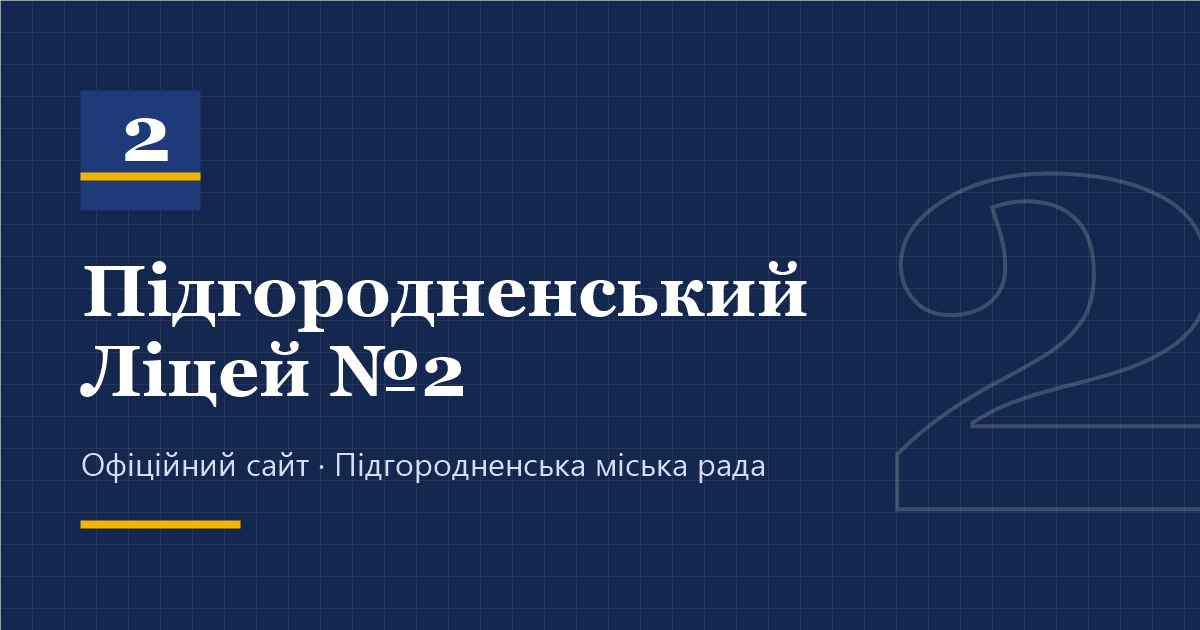
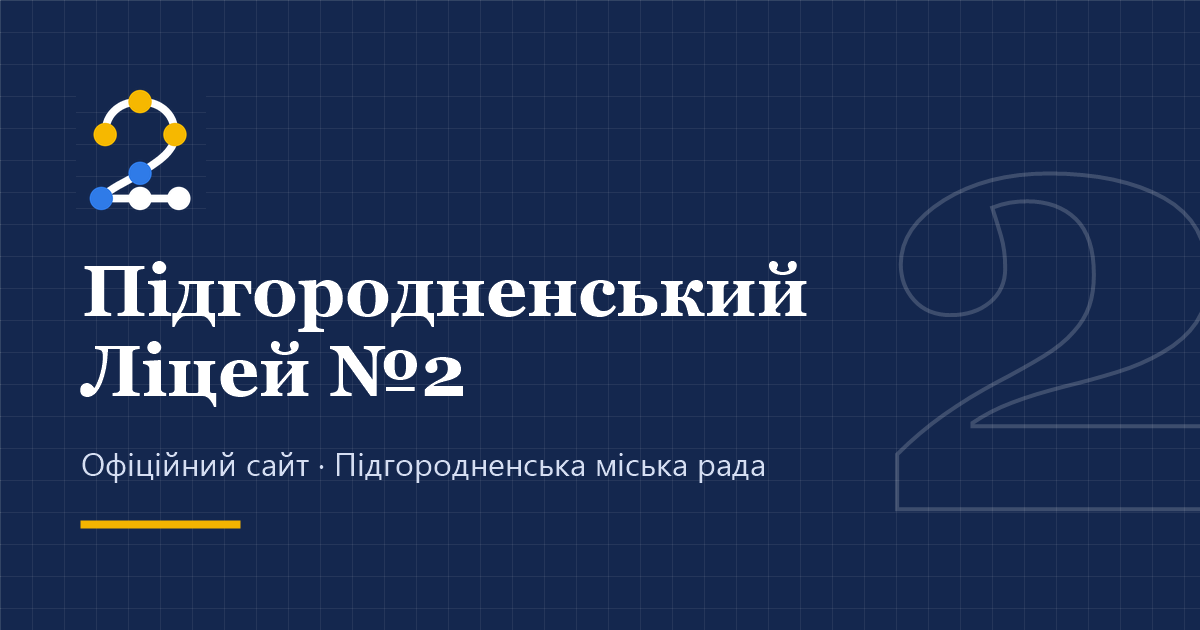
Оновлення актуальності

Changed region(s): [[0.0617, 0.1206, 0.185, 0.3317]]

diff --git a/about.html b/about.html
@@ -25,9 +25,9 @@
 <link rel="preconnect" href="https://fonts.googleapis.com">
 <link rel="preconnect" href="https://fonts.gstatic.com" crossorigin>
 <link href="https://fonts.googleapis.com/css2?family=Unbounded:wght@500;700;800&family=Manrope:wght@400;500;600;700;800&display=swap" rel="stylesheet">
-<link rel="stylesheet" href="style.css?v=20261106-5">
-<link rel="stylesheet" href="theme.css?v=20261023-11">
-<link rel="stylesheet" href="pages.css?v=20261106-5">
+<link rel="stylesheet" href="style.css?v=20261106-6">
+<link rel="stylesheet" href="theme.css?v=20261106-6">
+<link rel="stylesheet" href="pages.css?v=20261106-6">
 </head>
 <body>
 
@@ -158,6 +158,14 @@
         </aside>
       </div>
       <ol class="timeline" id="h-line" aria-label="Основні віхи"></ol>
+      <div class="logo-card">
+        <span class="l2-logo" aria-hidden="true"></span>
+        <div>
+          <h3>Що означає наш логотип</h3>
+          <p>Цифра 2 складена із семи з'єднаних вузлів: це сім профілів ліцею. Три жовті вузли — кластер STEM (математично-інформатичний, інженерний, хіміко-біологічний профілі), два сині — мовно-літературний кластер, ще два — соціально-гуманітарний.</p>
+          <p>Лінія, що поєднує вузли, схожа на молекулу чи електричну схему. Вона означає, що всі напрями належать до однієї школи: хоч би який профіль обрав учень, це той самий Ліцей №2.</p>
+        </div>
+      </div>
     </div>
   </section>
 
@@ -283,7 +291,7 @@
 
 <script src="js/data.js?v=20261106-4" defer></script>
 <script src="js/img-sizes.js?v=20261027-1" defer></script>
-<script src="js/common.js?v=20261106-5" defer></script>
+<script src="js/common.js?v=20261106-6" defer></script>
 <script src="js/teachers.js?v=20261106-4" defer></script>
 <script src="js/about.js?v=20261106-4" defer></script>
 <script src="js/about-page.js?v=20261106-4" defer></script>

diff --git a/js/common.js b/js/common.js
@@ -24,11 +24,16 @@
   }
 
   /* логотип, верхня смужка, підвал */
+  /* «Сузір'я двійки»: цифра 2 із семи вузлів - сім профілів ліцею.
+     жовті - STEM, сині - мовно-літературний кластер, колір лінії - соціально-гуманітарний. Опис є на сторінці «Про ліцей» */
+  var LOGO = '<svg class="mark" viewBox="0 0 64 64" aria-hidden="true"><path d="M14 24C14 13 22 7 32 7c10 0 18 6 18 17 0 9-9 14-18 20-8 5-16 8-20 13h40" fill="none" stroke="currentColor" stroke-width="4" stroke-linecap="round" stroke-linejoin="round"/>' +
+    '<g fill="#F6B800"><circle cx="14" cy="24" r="6"/><circle cx="32" cy="7" r="6"/><circle cx="50" cy="24" r="6"/></g>' +
+    '<g fill="#2F7BE8"><circle cx="32" cy="44" r="6"/><circle cx="12" cy="57" r="6"/></g>' +
+    '<g fill="currentColor"><circle cx="32" cy="57" r="6"/><circle cx="52" cy="57" r="6"/></g></svg>';
   $("#logo").innerHTML = CONFIG.logoUrl
     ? '<img class="mark" src="' + esc(CONFIG.logoUrl) + '" alt="" width="48" height="48" fetchpriority="high">'
-    : '<svg class="mark" viewBox="0 0 52 52" aria-hidden="true"><defs><clipPath id="mk"><rect width="52" height="52" rx="14"/></clipPath></defs>' +
-      '<g clip-path="url(#mk)"><rect width="52" height="52" fill="#14274E"/><rect y="47" width="52" height="5" fill="#F6B800"/></g>' +
-      '<text x="26" y="35" text-anchor="middle" font-family="Unbounded,Manrope,sans-serif" font-weight="800" font-size="26" fill="#fff">2</text></svg>';
+    : LOGO;
+  $$(".foot-mark, .l2-logo").forEach(function (el) { el.innerHTML = LOGO; });
   $("#u-mail").href = mailto; $("#u-mail span").textContent = CONFIG.email;
   $("#u-addr span").textContent = "вул. Державна, 2, м. Підгородне";
   $("#u-fb").href = CONFIG.facebook;

diff --git a/style.css b/style.css
@@ -41,7 +41,6 @@ html.dark{color-scheme:dark;
   --sh2:0 2px 4px rgba(0,0,0,.4),0 14px 32px rgba(0,0,0,.45)}
 html.dark .map-frame{filter:invert(.9) hue-rotate(180deg) brightness(.95)}
 html.dark .sent{background:#10301F;border-color:#1F5A38}
-html.dark .mark rect:first-child{stroke:rgba(255,255,255,.25);stroke-width:2}
 html.contrast{--navy:#000;--navy-2:#000;--ink:#000;--ink-2:#000;--muted:#1a1a1a;--paper:#fff;--sky:#fff;--line:#000;--sun:#FFE600;--sh1:none;--sh2:none;
   --bg:#fff;--surface:#fff;--fill:#000;--band:#000;--header-bg:#fff}
 html.contrast .tile,html.contrast details.grp,html.contrast .feature,html.contrast .quick a,html.contrast .formcard{border:2px solid #000}
@@ -103,7 +102,7 @@ h1,h2,h3{margin:0}
 .brand{display:flex;align-items:center;gap:.75rem;text-decoration:none}
 .brand .mark{transition:transform .35s var(--ease)}
 .brand:hover .mark{transform:rotate(-8deg) scale(1.06)}
-.mark{width:44px;height:44px;flex:none;border-radius:12px;display:block}
+.mark{width:44px;height:44px;flex:none;display:block;color:var(--ink)}
 .brand b{font-family:var(--serif);font-size:1.2rem;line-height:1.1;display:block}
 .brand small{font-size:.78rem;color:var(--muted);display:block;line-height:1.25}
 .nav{margin-left:auto}

diff --git a/albums.html b/albums.html
@@ -25,9 +25,9 @@
 <link rel="preconnect" href="https://fonts.googleapis.com">
 <link rel="preconnect" href="https://fonts.gstatic.com" crossorigin>
 <link href="https://fonts.googleapis.com/css2?family=Unbounded:wght@500;700;800&family=Manrope:wght@400;500;600;700;800&family=Caveat:wght@600;700&display=swap" rel="stylesheet">
-<link rel="stylesheet" href="style.css?v=20261106-5">
-<link rel="stylesheet" href="theme.css?v=20261023-11">
-<link rel="stylesheet" href="pages.css?v=20261106-5">
+<link rel="stylesheet" href="style.css?v=20261106-6">
+<link rel="stylesheet" href="theme.css?v=20261106-6">
+<link rel="stylesheet" href="pages.css?v=20261106-6">
 </head>
 <body>
 
@@ -188,7 +188,7 @@
 
 <script src="js/data.js?v=20261106-4" defer></script>
 <script src="js/img-sizes.js?v=20261027-1" defer></script>
-<script src="js/common.js?v=20261106-5" defer></script>
+<script src="js/common.js?v=20261106-6" defer></script>
 <script src="js/blocks.js?v=20261027-1" defer></script>
 <script src="js/sections/education.js?v=20261027-1" defer></script>
 <script src="js/sections/public.js?v=20261106-4" defer></script>

diff --git a/post.html b/post.html
@@ -25,9 +25,9 @@
 <link rel="preconnect" href="https://fonts.googleapis.com">
 <link rel="preconnect" href="https://fonts.gstatic.com" crossorigin>
 <link href="https://fonts.googleapis.com/css2?family=Unbounded:wght@500;700;800&family=Manrope:wght@400;500;600;700;800&display=swap" rel="stylesheet">
-<link rel="stylesheet" href="style.css?v=20261106-5">
-<link rel="stylesheet" href="theme.css?v=20261023-11">
-<link rel="stylesheet" href="pages.css?v=20261106-5">
+<link rel="stylesheet" href="style.css?v=20261106-6">
+<link rel="stylesheet" href="theme.css?v=20261106-6">
+<link rel="stylesheet" href="pages.css?v=20261106-6">
 </head>
 <body>
 
@@ -188,7 +188,7 @@
 
 <script src="js/data.js?v=20261106-4" defer></script>
 <script src="js/img-sizes.js?v=20261027-1" defer></script>
-<script src="js/common.js?v=20261106-5" defer></script>
+<script src="js/common.js?v=20261106-6" defer></script>
 <script src="data/gazeta-config.js?v=20261024-3" defer></script>
 <script src="js/gazeta-common.js?v=20261024-3" defer></script>
 <script src="vendor/page-flip/page-flip.browser.js?v=2.0.7" defer></script>

diff --git a/proforientation.html b/proforientation.html
@@ -15,9 +15,9 @@
 <link rel="preconnect" href="https://fonts.googleapis.com">
 <link rel="preconnect" href="https://fonts.gstatic.com" crossorigin>
 <link href="https://fonts.googleapis.com/css2?family=Unbounded:wght@500;700;800&family=Manrope:wght@400;500;600;700;800&display=swap" rel="stylesheet">
-<link rel="stylesheet" href="style.css?v=20261106-5">
-<link rel="stylesheet" href="theme.css?v=20261023-11">
-<link rel="stylesheet" href="pages.css?v=20261106-5">
+<link rel="stylesheet" href="style.css?v=20261106-6">
+<link rel="stylesheet" href="theme.css?v=20261106-6">
+<link rel="stylesheet" href="pages.css?v=20261106-6">
 </head>
 <body>
 
@@ -178,7 +178,7 @@
 
 <script src="js/data.js?v=20261106-4" defer></script>
 <script src="js/img-sizes.js?v=20261027-1" defer></script>
-<script src="js/common.js?v=20261106-5" defer></script>
+<script src="js/common.js?v=20261106-6" defer></script>
 <script src="js/clusters.js?v=20261023-11" defer></script>
 <script src="js/quiz-kit.js?v=20261023-11" defer></script>
 <script src="js/proforientation-config.js?v=20261023-11" defer></script>

diff --git a/blog.html b/blog.html
@@ -25,9 +25,9 @@
 <link rel="preconnect" href="https://fonts.googleapis.com">
 <link rel="preconnect" href="https://fonts.gstatic.com" crossorigin>
 <link href="https://fonts.googleapis.com/css2?family=Unbounded:wght@500;700;800&family=Manrope:wght@400;500;600;700;800&display=swap" rel="stylesheet">
-<link rel="stylesheet" href="style.css?v=20261106-5">
-<link rel="stylesheet" href="theme.css?v=20261023-11">
-<link rel="stylesheet" href="pages.css?v=20261106-5">
+<link rel="stylesheet" href="style.css?v=20261106-6">
+<link rel="stylesheet" href="theme.css?v=20261106-6">
+<link rel="stylesheet" href="pages.css?v=20261106-6">
 </head>
 <body>
 
@@ -188,7 +188,7 @@
 
 <script src="js/data.js?v=20261106-4" defer></script>
 <script src="js/img-sizes.js?v=20261027-1" defer></script>
-<script src="js/common.js?v=20261106-5" defer></script>
+<script src="js/common.js?v=20261106-6" defer></script>
 <script src="data/gazeta-config.js?v=20261024-3" defer></script>
 <script src="js/gazeta-common.js?v=20261024-3" defer></script>
 <script src="js/gazeta-page.js?v=20261024-4" defer></script>

diff --git a/education.html b/education.html
@@ -25,9 +25,9 @@
 <link rel="preconnect" href="https://fonts.googleapis.com">
 <link rel="preconnect" href="https://fonts.gstatic.com" crossorigin>
 <link href="https://fonts.googleapis.com/css2?family=Unbounded:wght@500;700;800&family=Manrope:wght@400;500;600;700;800&display=swap" rel="stylesheet">
-<link rel="stylesheet" href="style.css?v=20261106-5">
-<link rel="stylesheet" href="theme.css?v=20261023-11">
-<link rel="stylesheet" href="pages.css?v=20261106-5">
+<link rel="stylesheet" href="style.css?v=20261106-6">
+<link rel="stylesheet" href="theme.css?v=20261106-6">
+<link rel="stylesheet" href="pages.css?v=20261106-6">
 </head>
 <body>
 
@@ -188,7 +188,7 @@
 
 <script src="js/data.js?v=20261106-4" defer></script>
 <script src="js/img-sizes.js?v=20261027-1" defer></script>
-<script src="js/common.js?v=20261106-5" defer></script>
+<script src="js/common.js?v=20261106-6" defer></script>
 <script src="js/blocks.js?v=20261027-1" defer></script>
 <script src="js/sections/education.js?v=20261023-11" defer></script>
 <script src="js/section-page.js?v=20261023-11" defer></script>

diff --git a/upbringing.html b/upbringing.html
@@ -25,9 +25,9 @@
 <link rel="preconnect" href="https://fonts.googleapis.com">
 <link rel="preconnect" href="https://fonts.gstatic.com" crossorigin>
 <link href="https://fonts.googleapis.com/css2?family=Unbounded:wght@500;700;800&family=Manrope:wght@400;500;600;700;800&display=swap" rel="stylesheet">
-<link rel="stylesheet" href="style.css?v=20261106-5">
-<link rel="stylesheet" href="theme.css?v=20261023-11">
-<link rel="stylesheet" href="pages.css?v=20261106-5">
+<link rel="stylesheet" href="style.css?v=20261106-6">
+<link rel="stylesheet" href="theme.css?v=20261106-6">
+<link rel="stylesheet" href="pages.css?v=20261106-6">
 </head>
 <body>
 
@@ -188,7 +188,7 @@
 
 <script src="js/data.js?v=20261106-4" defer></script>
 <script src="js/img-sizes.js?v=20261027-1" defer></script>
-<script src="js/common.js?v=20261106-5" defer></script>
+<script src="js/common.js?v=20261106-6" defer></script>
 <script src="js/blocks.js?v=20261027-1" defer></script>
 <script src="js/sections/upbringing.js?v=20261106-4" defer></script>
 <script src="js/section-page.js?v=20261023-11" defer></script>

diff --git a/services.html b/services.html
@@ -25,9 +25,9 @@
 <link rel="preconnect" href="https://fonts.googleapis.com">
 <link rel="preconnect" href="https://fonts.gstatic.com" crossorigin>
 <link href="https://fonts.googleapis.com/css2?family=Unbounded:wght@500;700;800&family=Manrope:wght@400;500;600;700;800&display=swap" rel="stylesheet">
-<link rel="stylesheet" href="style.css?v=20261106-5">
-<link rel="stylesheet" href="theme.css?v=20261023-11">
-<link rel="stylesheet" href="pages.css?v=20261106-5">
+<link rel="stylesheet" href="style.css?v=20261106-6">
+<link rel="stylesheet" href="theme.css?v=20261106-6">
+<link rel="stylesheet" href="pages.css?v=20261106-6">
 </head>
 <body>
 
@@ -188,7 +188,7 @@
 
 <script src="js/data.js?v=20261106-4" defer></script>
 <script src="js/img-sizes.js?v=20261027-1" defer></script>
-<script src="js/common.js?v=20261106-5" defer></script>
+<script src="js/common.js?v=20261106-6" defer></script>
 <script src="js/blocks.js?v=20261027-1" defer></script>
 <script src="js/sections/services.js?v=20261023-11" defer></script>
 <script src="js/section-page.js?v=20261023-11" defer></script>

diff --git a/public.html b/public.html
@@ -25,9 +25,9 @@
 <link rel="preconnect" href="https://fonts.googleapis.com">
 <link rel="preconnect" href="https://fonts.gstatic.com" crossorigin>
 <link href="https://fonts.googleapis.com/css2?family=Unbounded:wght@500;700;800&family=Manrope:wght@400;500;600;700;800&display=swap" rel="stylesheet">
-<link rel="stylesheet" href="style.css?v=20261106-5">
-<link rel="stylesheet" href="theme.css?v=20261023-11">
-<link rel="stylesheet" href="pages.css?v=20261106-5">
+<link rel="stylesheet" href="style.css?v=20261106-6">
+<link rel="stylesheet" href="theme.css?v=20261106-6">
+<link rel="stylesheet" href="pages.css?v=20261106-6">
 </head>
 <body>
 
@@ -188,7 +188,7 @@
 
 <script src="js/data.js?v=20261106-4" defer></script>
 <script src="js/img-sizes.js?v=20261027-1" defer></script>
-<script src="js/common.js?v=20261106-5" defer></script>
+<script src="js/common.js?v=20261106-6" defer></script>
 <script src="js/blocks.js?v=20261027-1" defer></script>
 <script src="js/sections/public.js?v=20261106-4" defer></script>
 <script src="js/section-page.js?v=20261023-11" defer></script>

diff --git a/news.html b/news.html
@@ -25,9 +25,9 @@
 <link rel="preconnect" href="https://fonts.googleapis.com">
 <link rel="preconnect" href="https://fonts.gstatic.com" crossorigin>
 <link href="https://fonts.googleapis.com/css2?family=Unbounded:wght@500;700;800&family=Manrope:wght@400;500;600;700;800&display=swap" rel="stylesheet">
-<link rel="stylesheet" href="style.css?v=20261106-5">
-<link rel="stylesheet" href="theme.css?v=20261023-11">
-<link rel="stylesheet" href="pages.css?v=20261106-5">
+<link rel="stylesheet" href="style.css?v=20261106-6">
+<link rel="stylesheet" href="theme.css?v=20261106-6">
+<link rel="stylesheet" href="pages.css?v=20261106-6">
 </head>
 <body>
 
@@ -188,7 +188,7 @@
 
 <script src="js/data.js?v=20261106-4" defer></script>
 <script src="js/img-sizes.js?v=20261027-1" defer></script>
-<script src="js/common.js?v=20261106-5" defer></script>
+<script src="js/common.js?v=20261106-6" defer></script>
 <script src="js/blocks.js?v=20261027-1" defer></script>
 <script src="js/sections/news.js?v=20261106-4" defer></script>
 <script src="js/section-page.js?v=20261023-11" defer></script>
